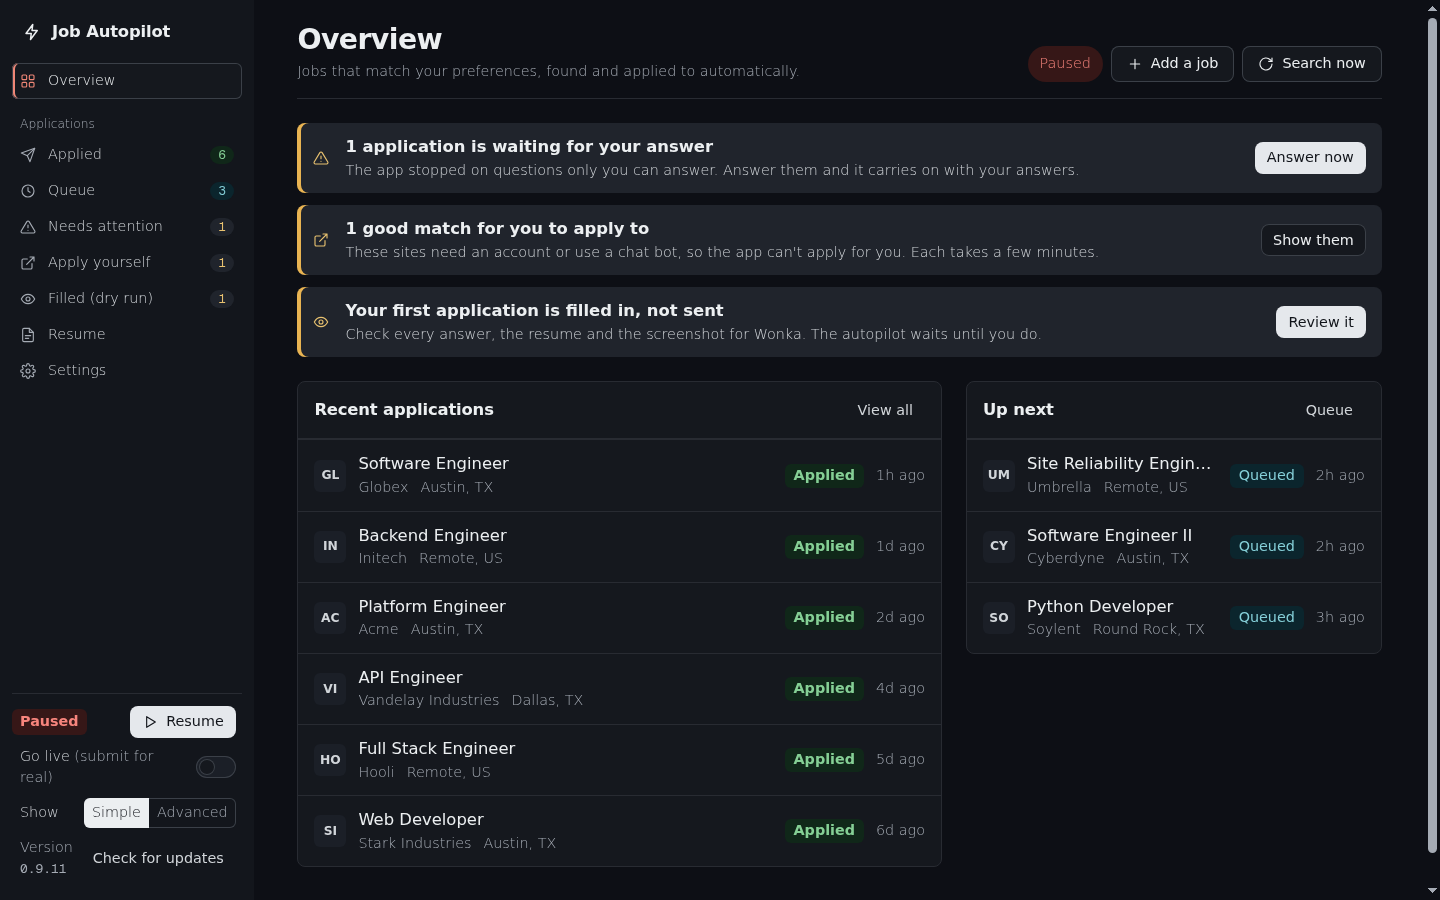
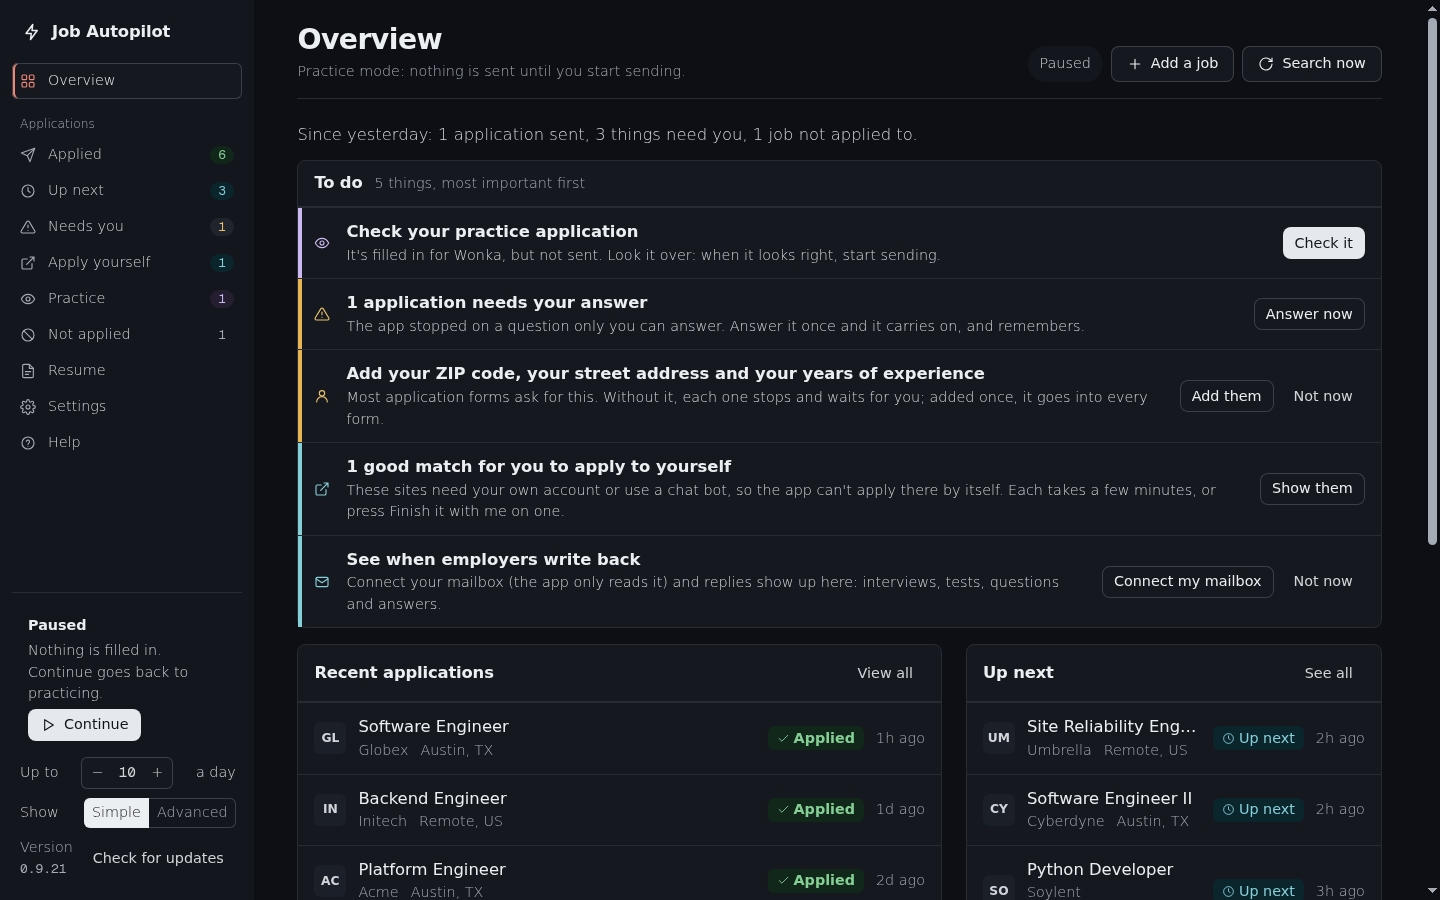
README and its pictures for the clearer app: the mode box, practice mode's end, years of experience, Not applied, the job panel, Settings' save bar, the list of applications

diff --git a/README.md b/README.md
@@ -24,7 +24,7 @@ For hourly and everyday jobs as well as office and tech work. Desktop app for ma
 
 <br><br>
 
-**The 60-second tour**: every step from the first setup screen to going live.
+**The 60-second tour**: every step from the first setup screen to sending for real.
 
 https://github.com/user-attachments/assets/18073345-3718-43e3-89f1-352ddd10d98b
 
@@ -34,7 +34,7 @@ https://github.com/user-attachments/assets/18073345-3718-43e3-89f1-352ddd10d98b
 
 > [!IMPORTANT]
 > **It starts in practice mode.** It fills in an application but doesn't send
-> it, until you've checked one yourself and pressed **Start sending for real**.
+> it, until you've checked one yourself and pressed **Start sending**.
 > It never states anything you didn't tell it, never guesses a legal agreement,
 > and never applies to the same job twice.
 
@@ -165,7 +165,8 @@ once. At most 2 applications a month to one company, the best match first.
 **After you apply**<br>
 A short follow-up note for applications with no answer after 10 days, where
 each one stands, what's working (which sources, titles and resume versions get
-answers), and interview prep notes built on your own resume lines.
+answers), interview prep notes built on your own resume lines, and a dated list
+of every application for unemployment claims.
 
 </td>
 </tr>
@@ -303,7 +304,8 @@ left off. You can change all of it later under **Settings** and **Resume**.
    **I already have a key**. Under **Other ways to connect an AI** you can use
    another service, or a free model on your own computer (see
    [Using a local model](#using-a-local-model)).
-3. **Your resume.** Drop in one or more resumes (PDF or Word `.docx`). No
+3. **Your resume.** Drop in one or more resumes (PDF or Word `.docx`); the app
+   reads them straight away. No
    resume? Open **I don't have a resume** and tell the app about your work in
    your own words, in a chat (or answer a short form); the app writes one with
    you (see [Making and improving your resume](#making-and-improving-your-resume)).
@@ -375,8 +377,9 @@ left off. You can change all of it later under **Settings** and **Resume**.
 The last screen asks how the app should behave while it works: keep working
 when you close the window (on), start with your computer (off), and show a
 notification when something needs you (on). Then press **Start practicing**.
-A short tour shows the three things to know. The mailbox isn't part of the
-setup: the app suggests it later, when it would help (see [Mailbox](#mailbox)).
+On the Overview, a short tip says what the **To do** list is for. The mailbox
+isn't part of the setup: the app suggests it later, when it would help (see
+[Mailbox](#mailbox)).
 
 ## Making and improving your resume
 
@@ -450,8 +453,10 @@ what it came from ("You said yes to: ..."). Most people find several things they
 forgot.
 
 The app writes two to four lines per job and a short summary. Your skills,
-languages and certifications are listed exactly as you typed them. It can
-start a new resume or add to the one you have.
+languages and certifications are listed exactly as you typed them. It adds them
+to the resume you have (**Add to my current resume** is ticked at first). Untick
+it to start a new one; the app asks once more before it replaces lines you
+approved.
 
 Jobs already on your resume get the same thing on the **Check & improve**
 part, under **Remember more**: answer the questions, then **Add what I said
@@ -460,9 +465,10 @@ yes to**. The new lines wait for your approval.
 **Projects from GitHub** is described [below](#projects-from-github).
 
 **All your resume pieces** shows every line, where it came from ("From your
-answer: ..."), and whether it's approved. **Add another resume** uploads
-another file. **Download my resume (PDF)** saves the general version, for jobs
-you apply to yourself.
+answer: ..."), and whether it's approved. **Add another resume** reads another
+file as soon as you drop it in and adds its pieces to yours, unapproved.
+**Download my resume (PDF)** saves the general version, for jobs you apply to
+yourself.
 
 **The recruiter's pass.** After the creator writes your lines, the app goes over
 them the way a recruiter would (the rules, and the research behind them, are in
@@ -658,11 +664,15 @@ Some postings are left out before the AI reads them, so they cost nothing:
   different work than yours, and none of that kind fit, it leaves that kind out.
   Settings > Jobs to look for lists every kind left out, marked **(learned)**
   when the app chose it; press &times; to bring one back for good.
-- **A near miss on years.** Many employers treat "3 years of experience" as a
-  guide. **When a job asks for a bit more experience than you have** (under
-  Jobs to look for) applies when you're up to 1 year short (at first), up to 2,
-  or never. Every other must-have still has to be met, and forms always get your
-  real numbers.
+- **More years than you have.** Under Jobs to look for, **Years you've done this
+  kind of work** goes by your resume's dates and your answers until you type
+  your own number. Many employers treat "3 years of experience" as a guide, so
+  **When a job asks for a little more** applies when you're up to 1 year short
+  (at first), up to 2, or never. A line under them says what follows ("So the
+  app applies to jobs that ask for up to 4 years of experience, and leaves out
+  the ones that ask for more"). A job that asks for more is listed under **Not
+  applied** with its reason, and **Apply anyway** sends it. Every other
+  must-have still has to be met, and forms always get your real numbers.
 - **One company, over and over.** **Applications to one company** sends at most
   2 a month to one employer (at first; 1, 3 or no limit), never two within 3 days.
   Where several of its jobs fit, the best match with your resume goes first.
@@ -674,7 +684,7 @@ of its job postings, or to its careers page) into **Companies you'd love to work
 for** and press **Add**. The app finds the company's own job board on Greenhouse,
 Lever or Ashby, where most tech companies post, and says how many jobs are open
 there. From then on it reads that board on every search: new jobs there that fit
-you go to the front of the queue, however long they've been up. Up to 30
+you go first, however long they've been up. Up to 30
 companies; press &times; on one to stop. A company whose jobs are somewhere else
 (Workday, its own site) can't be added this way; use **Add a job** for those.
 
@@ -755,7 +765,7 @@ Then for each Workday job the app chooses **Apply manually**, makes the account
 (or signs in, if it made one there before), confirms it from your email, and
 fills every page. In practice mode it stops before **Submit**: the filled pages are
 saved as a draft in your account on that site, which you can open and check.
-Workday jobs already waiting in Apply yourself move to the queue when you turn it
+Workday jobs already waiting in Apply yourself move to **Up next** when you turn it
 on. Settings lists every account the app made.
 
 Things to know:
@@ -765,7 +775,8 @@ Things to know:
   password, the app can't sign in there; the job stops and says so.
 - A site that shows a CAPTCHA at sign-up still waits for you.
 - Workday's own forms vary by company. This has been tested on a practice copy
-  of a Workday site, not on real ones yet, so check the first few practice runs.
+  of a Workday site, not on real ones yet, so check the first few practice
+  applications.
 
 The app applies by itself on sites that need no account. That includes
 Greenhouse, Lever, Ashby, SmartRecruiters, Workable, CareerPlug, Paycom,
@@ -792,6 +803,16 @@ half of good matches to be ones the app can do by itself.
   **Skip to the page**.
 - **Screen readers:** every button, box and choice has a name, a job opens as
   a dialog, and messages are read out.
+- **One word for each thing, with an icon and a colour:** green for sent,
+  blue for what the app is doing or will do, violet for practice, gray for what
+  was left out or paused, amber only for what waits on you, and red only for
+  what wasn't sent. The word and the icon say it too, so colour is never the
+  only sign.
+- **Settings keep what you type:** a section you change says **Changes here
+  aren't saved yet**, with **Save changes** in view at the bottom of the window,
+  and leaving with changes not saved asks first. Links at the top go to each
+  section, and a button elsewhere in the app that names a setting opens Settings
+  at that setting.
 - **Checked automatically:** every change is tested against the WCAG 2.2 AA
   accessibility rules (with axe-core) on every page, in light and dark, at a
   small and a large window size, along with the colour contrast of every text
@@ -799,21 +820,24 @@ half of good matches to be ones the app can do by itself.
 
 ### Simple or Advanced
 
-The app starts in **Simple**: the sidebar shows only the pages most people use
-(Overview, the application lists, Resume, Settings), the Overview shows what
-needs you and what's next, and extra tools stay out of the way. Switch to
-**Advanced** at the bottom of the sidebar (or Settings > Appearance) to see
-everything: statistics and activity, Skipped and All jobs, the recruiter's
-score, a version of your resume for each kind of job, job site accounts, pace
-and browser settings, and your data folder. Nothing changes in how the app
-works; only how much it shows.
+The app starts in **Simple**: the Overview shows what needs you and what's
+next, and statistics stay out of the way. Every page and setting the app points
+you to is there in Simple too: the lists (Applied, Up next, Needs you, Apply
+yourself, Practice, Not applied), Resume, Settings with job site accounts and
+your data, and the daily limit at the bottom left. Switch to **Advanced** at the
+bottom of the sidebar (or Settings > Appearance) to see everything: statistics
+and activity, All jobs, where each job was found, the recruiter's score, a
+version of your resume for each kind of job, pace and browser settings, and
+your application history. Nothing changes in how the app works; only how much
+it shows.
 
 ## What happens next
 
 - Every two hours it searches the sources you picked for your titles and
-  places, and checks each new job for fit. Jobs it can apply to go in the
-  **Queue**. Good matches on account-only sites go to **Apply yourself**.
-- For each queued job, a browser window opens and the app:
+  places, and checks each new job for fit. Jobs it can apply to go in **Up
+  next**. Good matches on account-only sites go to **Apply yourself**. The ones
+  it leaves out go to **Not applied**, each with its reason.
+- For each job up next, a browser window opens and the app:
   - reads the form
   - builds your resume for that job
   - fills in every answer
@@ -822,22 +846,32 @@ works; only how much it shows.
 - **In practice mode** it stops before Submit, and on forms with several pages
   it stops before the first **Next** (some sites save an application as soon as
   you press Next). The first practice application shows up at the top of the
-  Overview's **To do** list. Open it to see every answer (and where each one
-  came from), the resume PDF, the screenshots and the posting. If it's right,
-  press **It looks right: start sending for real**, then **Start sending**. If
-  something's wrong, press **Something's wrong**: the app asks what (an answer,
-  a line on your resume, the kind of job) and takes you to where you fix it.
-- **Practice runs you liked can go out too.** The **Practice runs** list has
-  **Send them for real** (and each one, **Send this one for real**). Each is
-  filled in again and sent, at your daily pace and before the rest of the queue;
-  ones whose postings have closed are left out, and at any one company they go
-  a few days apart, within your monthly limit. A practice run is never sent as
-  it was filled, since forms and postings change. Right after **Start sending**,
-  the app offers to send them.
+  Overview's **To do** list. Open it: **Check it before anything is sent** points
+  to its answers (and where each one came from), the resume and the screenshots.
+  If it's right, press **Looks right: start sending**. If something's wrong,
+  press **Something's wrong**: change an answer right there (press **Change**
+  next to it, and the app fills in a new practice application with your
+  answer), or go to the line on your resume or to the kinds of jobs it looks
+  for.
+- **Practice mode has an end.** After the first practice application, the app
+  waits until you open it. After that it fills in at most 3 more until you
+  open one again, and practice applications count toward your daily limit,
+  so practicing goes at the pace sending would. The To do list says how many
+  are waiting, with **Start sending**.
+- **Practice applications you liked can go out too.** **Start sending** asks
+  once, with **Also send the practice applications** ticked. Each is filled in
+  again and sent, at your daily pace and before the rest; ones whose postings
+  have closed are left out, and at any one company they go a few days apart,
+  within your monthly limit. A practice application is never sent as it was
+  filled, since forms and postings change. Later, the **Practice** list has
+  **Send them for real**, and each one has **More** > **Send only this one for
+  real**.
 - From then on it sends applications: 10 a day by default, 6 minutes apart,
-  and the daily count resets at 9 AM your time. **Pause** at the bottom left
-  stops it any time; the **Send for real** switch takes it back to practice
-  mode.
+  and the daily count resets at 9 AM your time. The box at the bottom left
+  always says which mode the app is in, with the button to press: **Practice
+  mode** (nothing is sent) with **Start sending**, **Sending** with **Pause**
+  and **Back to practice**, or **Paused** with **Continue**. Under it, **Up to
+  10 a day** changes the daily limit.
 - **Closing the window doesn't stop it.** It keeps looking for jobs and
   applying in the background. Open it again from its icon in the menu bar at
   the top of the screen (Mac) or in the system tray next to the clock
@@ -846,13 +880,22 @@ works; only how much it shows.
   off). Settings > **While it works** turns each of these off, and can start
   the app (without a window) when your computer starts.
 - **Notifications** tell you when something needs you: an employer wrote back,
-  a question only you can answer, your practice application is ready, it's your
-  turn in an application you're finishing with the app, or the AI stopped
-  working. Click one to go straight to it.
-- The **Overview** starts with one line about your week and a **To do** list:
-  everything that needs you, most important first, each with one button. When
-  it's empty, the app is busy on its own. **Help** at the bottom of the menu
-  has short answers to common questions, and the tour again.
+  a question only you can answer, your practice application is ready, practice
+  applications are waiting for you to look, it's your turn in an application
+  you're finishing with the app, or the AI stopped working. Click one to go
+  straight to it.
+- The **Overview** starts with one line about the last day ("Since yesterday:
+  2 applications sent, 1 thing needs you, 14 jobs not applied to") and a **To
+  do** list: everything that needs you, most important first, each with one
+  button. When it's empty, the app is busy on its own. The other pages show one
+  line saying how many things need you. **Help** at the bottom of the menu has
+  short answers to common questions, starting with "Why isn't anything being
+  sent?" and "Why were so many jobs not applied to?"
+- **Each job's panel** shows where it is and the one or two things to do now,
+  with the rest under **More**. **What happened** lists, in order, when it was
+  found, filled in, sent or stopped, and any reply. Its tabs have the answers,
+  the fit, the resume, the screenshots and the posting, each with a link to open
+  it on its own. In a narrow window the panel opens as a page, with **Back**.
 
 The browser is your installed Google Chrome, or Microsoft Edge if you don't
 have Chrome. With neither, the app downloads its own Chromium (about 150 MB,
@@ -903,7 +946,7 @@ them all, and you can remove any.
 Some applications stop on something only you can do on the site itself: a
 sign-in, a CAPTCHA, a page the site refuses, or a question you'd rather answer
 on the form. Open one and press **Finish it with me** (it's there for stopped
-applications, practice runs and Apply yourself jobs the app may open):
+applications, practice applications and Apply yourself jobs the app may open):
 
 1. A browser window comes up in front of you, and the app fills in the
    application with everything it knows.
@@ -928,9 +971,15 @@ stops early for it), and works while the autopilot is paused too.
 ### After you apply
 
 - **Where it stands.** Each sent application's panel has **Where it stands**:
-  waiting to hear, interviewing, offer, not moving forward, or you withdrew.
+  waiting to hear, interviewing, offer, not selected, or you withdrew.
   With your mailbox connected it's set from the employer's emails; change it
-  when you hear back some other way. The Applied list shows it.
+  when you hear back some other way. The Applied list shows it, and **No reply
+  yet** for one that's had no answer in three weeks.
+- **A list of your applications.** On the Applied page, **Save a list of them**
+  saves a spreadsheet (CSV) with the date, employer, job title, place, how you
+  applied and the link of every application sent, oldest first: what an
+  unemployment office asks for when you file a weekly claim. One that may have
+  gone through is in it too, marked so.
 - **Follow-ups.** Applications sent 10 to 60 days ago with no answer show up in
   the To do list. **Show them** lists each with a short, polite note in your
   name to copy and send to the recruiter or hiring manager (on LinkedIn, or as a
@@ -953,7 +1002,7 @@ stops early for it), and works while the autopilot is paused too.
 
 - **Submit an incomplete application.** If a required question has no
   answer, or no answer it can back up with your facts, the job goes to
-  **Needs attention** with the reason. Nothing goes out. You answer the
+  **Needs you** with the reason. Nothing goes out. You answer the
   question in the app and it carries on (see below).
 - **Make things up.**
   - Every fact comes from your approved resume pieces and your answers.
@@ -1005,10 +1054,10 @@ like spam. The app sends yours the way a careful person would:
 
 - **One company at a time.** Never two applications to the same company within
   3 days, and no more than your monthly limit (2 at first). A job at a company
-  you just applied to waits its turn; others go meanwhile. Practice runs sent
-  all at once follow these rules too. A job you pick yourself (one practice run
-  sent for real, a job added by its link, one you answered questions for) goes
-  when its turn comes.
+  you just applied to waits its turn; others go meanwhile. Practice applications
+  sent all at once follow these rules too. A job you pick yourself (one practice
+  application sent for real, a job added by its link, one you answered questions
+  for, one you chose to **Apply anyway**) goes when its turn comes.
 - **A person's pace.** Your daily limit, with a gap of your chosen minutes plus a
   little more each time, so they don't go out like clockwork. At least 40 to 70
   seconds on each form before Submit (filling usually takes longer anyway): forms
@@ -1032,7 +1081,7 @@ signs spam filters look for.
 Greenhouse sometimes emails a security code that has to be typed into the
 form before it accepts an application. With your mailbox connected, the app
 reads the code and finishes the application. Without it, those jobs wait in
-Needs attention, and the To do list offers **Connect my mailbox**. The app also
+Needs you, and the To do list offers **Connect my mailbox**. The app also
 uses the mailbox to spot employers' "thank you for applying" emails. Connect it
 any time under Settings > Mailbox.
 
@@ -1041,8 +1090,8 @@ the employers you applied to in the last 120 days, and puts each one with its
 application, sorted by what it says:
 
 - **Wants to talk** (an interview or a call), **Test or task** (an assessment),
-  **Needs something from you** (references, a form), **Offer**, or **Not moving
-  forward**.
+  **Needs something from you** (references, a form), **Offer**, or **Not
+  selected**.
 
 They show on the Overview (**Replies from employers**, with **Check now**), in
 the Applied list, and on the job. A banner tells you when one wants something
@@ -1091,7 +1140,7 @@ grows, and the previous copy is kept next to it as `.bak`.
 Once imported, the app never applies to those jobs again: not the same
 posting, not the same address, and not the same role at the same employer on
 another job board. Jobs that might have gone through (the app was interrupted
-while submitting) come in as Needs attention, never as something to retry.
+while submitting) come in as Needs you, never as something to retry.
 
 ## Privacy
 
@@ -1179,7 +1228,7 @@ OpenAI-compatible API" with their `http://localhost:.../v1` address and no key.
   responsible for every application sent in your name. That's why the app
   starts in practice mode, keeps a steady pace and records everything.
 - **Sites change.** Application sites change their forms from time to time. When a form can't be filled correctly, the app stops and puts the job
-  in Needs attention instead of sending something half-done.
+  in Needs you instead of sending something half-done.
 - **Some sites guess things.** A few application sites pre-fill your location
   from your internet connection. The app replaces a guessed city with yours,
   and notes it in that job's record.
@@ -1226,17 +1275,24 @@ passwords are never in it. Send the file to whoever helps you with the app.
   Settings > Jobs to look for.
 - **Only two of a chain's jobs show up.** When one employer posts the same job
   for many stores ("Delivery Driver" at twenty locations), the app keeps two,
-  so the queue isn't twenty copies of one job.
-- **Nothing gets queued.** The Overview says when the next search is and the
-  main reasons jobs were left out ("8 need a Class A CDL"); **See why** opens
-  **Skipped** with each job's reason.
-  Add more job titles (or click the suggestions), drag the distance slider
-  further, tick more levels, turn on more places to look, or raise the maximum
-  years required under More options.
+  so Up next isn't twenty copies of one job.
+- **Nothing is being sent.** Look at the box at the bottom left. **Practice
+  mode**: open a practice application from the To do list, and press **Start
+  sending** when it looks right. **Paused**: press **Continue**. **Sending**:
+  the daily limit may be reached (it starts again the next day), the next jobs
+  may be at companies you just applied to (they wait a few days), or nothing is
+  up next.
+- **Nothing is up next.** The Overview says when the next search is and the
+  main reasons jobs were left out ("8 needed a Class A CDL"); **See why** opens
+  **Not applied**. It groups the reasons, each with the setting behind it
+  (**Change my years**, **Change the distance**...), and lists each job with its
+  reason and **Apply anyway**. Add more job titles (or click the suggestions),
+  drag the distance slider further, tick more levels, turn on more places to
+  look, or check **Years you've done this kind of work** under Jobs to look for.
 - **Most matches are in Apply yourself.** That's normal for everyday jobs:
   many big employers use sites that need an account. Those take a few minutes
   each by hand.
-- **Lots of jobs in Needs attention with "Missing info."** Open one and
+- **Lots of jobs in Needs you with "Needs your answer."** Open one and
   answer the questions under **Answer to continue**; see
   [When it stops on a question](#when-it-stops-on-a-question). For facts that
   many forms ask (a street address, years of experience), filling them in
